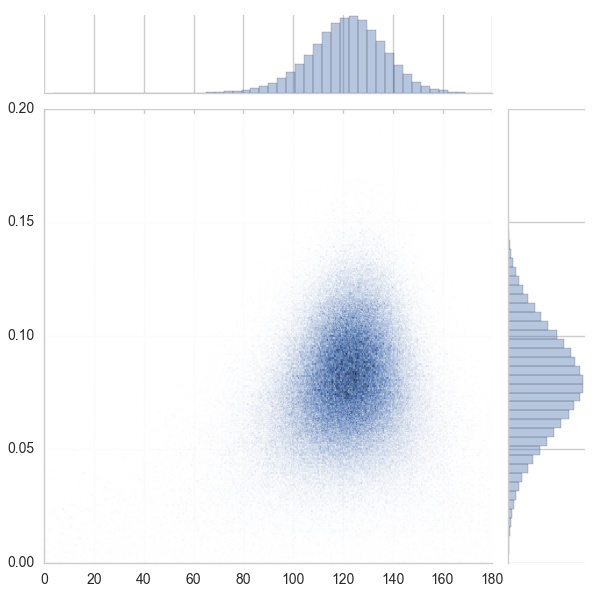
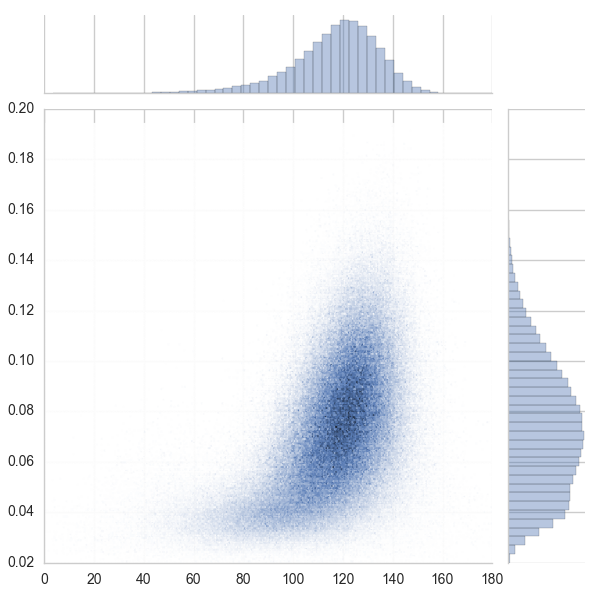
pics redraw

diff --git a/commons.py b/commons.py
@@ -27,6 +27,19 @@ rB = sp.Symbol('rB')
 
 y_theo = np.array([x_plus, y_plus, x_minus, y_minus]).T
 
+# gamma = 70, deltaB = 120, rB = 0.1
+direct = {'y_corr': np.mat([[1.000, 0.000, 0.000, 0.000],
+                      [0.000, 1.000, 0.000, 0.000],
+                      [0.000, 0.000, 1.000, 0.000],
+                      [0.000, 0.000, 0.000, 1.000]]),
+              'y_exp': np.array([-0.09848, -0.01736, 0.06427, 0.0766]),
+              'y_var': np.array([0.00000001, 0.00000001, 0.00000001, 0.00000001])}
+
+direct['y_corr_inv'] = np.linalg.inv(direct["y_corr"])
+direct['y_std'] = np.sqrt(direct["y_var"])
+direct['y_covar'] = np.mat(np.diag(direct['y_std']))*direct["y_corr"]*np.mat(np.diag(direct['y_std']))
+direct['y_covar_inv'] = np.linalg.inv(direct['y_covar'])
+
 summer2015 = {'y_corr': np.mat([[1.000, 0.093, 0.000,-0.000],
                       [0.093, 1.000,-0.000, 0.000],
                       [0.000,-0.000, 1.000,-0.132],
@@ -39,20 +52,44 @@ summer2015['y_std'] = np.sqrt(summer2015["y_var"])
 summer2015['y_covar'] = np.mat(np.diag(summer2015['y_std']))*summer2015["y_corr"]*np.mat(np.diag(summer2015['y_std']))
 summer2015['y_covar_inv'] = np.linalg.inv(summer2015['y_covar'])
 
-lumi3fb = {'y_corr': np.mat([
-    [ 1.000, 0.106,-0.136,-0.186],
-    [ 0.106, 1.000,-0.031,-0.074],
-    [-0.136,-0.031, 1.000,-0.053],
-    [-0.186,-0.074,-0.053, 1.000]]),
-              'y_exp': np.array([-8.85e-2, -0.12e-2, 3.46e-2, 7.91e-2]),
-              'y_var': np.array([(0.024**2 + 0.010**2 + 0.004**2),
-                                 (0.025**2 + 0.004**2 + 0.010**2),
-                                 (0.025**2 + 0.010**2 + 0.005**2),
-                                 (0.029**2 + 0.005**2 + 0.014**2)])}
+lumi1fb = {'y_stat_corr': np.mat([
+        [ 1.000, 0.170,-0.000,-0.000],
+        [ 0.170, 1.000,-0.000,-0.000],
+        [-0.000,-0.000, 1.000,-0.110],
+        [-0.000,-0.000,-0.110, 1.000]]),
+            'y_sys_corr': np.mat([
+        [ 1.000, 0.360,-0.000,-0.000],
+        [ 0.360, 1.000,-0.000,-0.000],
+        [-0.000,-0.000, 1.000,-0.050],
+        [-0.000,-0.000,-0.050, 1.000]]),
+              'y_exp': np.array([-0.103, -0.009, 0.000, 0.027]),
+              'y_stat_err': np.array([0.045, 0.037, 0.043, 0.052]),
+              'y_sys_err': np.array([(0.018**2 + 0.014**2)**0.5,
+                                     (0.008**2 + 0.030**2)**0.5,
+                                     (0.015**2 + 0.006**2)**0.5,
+                                     (0.008**2 + 0.023**2)**0.5])}
 
-lumi3fb['y_corr_inv'] = np.linalg.inv(lumi3fb["y_corr"])
-lumi3fb['y_std'] = np.sqrt(lumi3fb["y_var"])
-lumi3fb['y_covar'] = np.mat(np.diag(lumi3fb['y_std']))*lumi3fb["y_corr"]*np.mat(np.diag(lumi3fb['y_std']))
+lumi1fb['y_covar'] = np.mat(np.diag(lumi1fb['y_stat_err']))*lumi1fb["y_stat_corr"]*np.mat(np.diag(lumi1fb['y_stat_err'])) + \
+                     np.mat(np.diag(lumi1fb['y_sys_err']))*lumi1fb["y_sys_corr"]*np.mat(np.diag(lumi1fb['y_sys_err']))
+lumi1fb['y_covar_inv'] = np.linalg.inv(lumi1fb['y_covar'])
+
+lumi3fb = {
+            'y_stat_corr': np.mat([
+                [ 1.000, 0.106,-0.136,-0.186],
+                [ 0.106, 1.000,-0.031,-0.074],
+                [-0.136,-0.031, 1.000,-0.053],
+                [-0.186,-0.074,-0.053, 1.000]]),
+            'y_sys_corr': np.mat([
+                [ 1.000, 0.000,-0.000,-0.000],
+                [ 0.000, 1.000,-0.000,-0.000],
+                [-0.000,-0.000, 1.000,-0.000],
+                [-0.000,-0.000,-0.000, 1.000]]),
+            'y_exp': np.array([-8.85e-2, -0.12e-2, 3.46e-2, 7.91e-2]),
+            'y_stat_err': np.array([3.12e-2, 3.65e-2, 2.89e-2/5, 3.83e-2]),
+            'y_sys_err': np.array([0,0,0,0])}
+
+lumi3fb['y_covar'] = np.mat(np.diag(lumi3fb['y_stat_err']))*lumi3fb["y_stat_corr"]*np.mat(np.diag(lumi3fb['y_stat_err'])) + \
+                     np.mat(np.diag(lumi3fb['y_sys_err']))*lumi3fb["y_sys_corr"]*np.mat(np.diag(lumi3fb['y_sys_err']))
 lumi3fb['y_covar_inv'] = np.linalg.inv(lumi3fb['y_covar'])
 
 y_theo_sym = sp.Matrix([rB*sp.cos((deltaB + gamma)*(math.pi/180)),

diff --git a/ggsz_native.py b/ggsz_native.py
@@ -66,12 +66,12 @@ def print_hpd(var, lvl):
     print("{} {}% HPD: {}".format(var.__name__, int(lvl*100), pymc.utils.hpd(var.trace[:] , 1.-lvl)))
 
 if __name__ == "__main__":
-    for name, lower_limit, upper_limit in [('q1', 0, 180), ('q4', -180, 0)]:
+    for name, lower_limit, upper_limit in [('q1', 0, 180)]:
         print("Calculations for {}...".format(name))
         # Vars
         gamma = Uniform("gamma", doc="$\gamma$", lower=lower_limit, upper=upper_limit)
         deltaB = Uniform("deltaB", doc="$\delta_B$", lower=lower_limit, upper=upper_limit)
-        rB = Uniform("rB", doc='$r_B$', lower=0, upper=0.5)
+        rB = Uniform("rB", doc='$r_B$', lower=0.02, upper=0.2)
         var_list = [gamma, deltaB, rB]
 
         @deterministic

diff --git a/ggsz_gammacombo.py b/ggsz_gammacombo.py
@@ -16,7 +16,7 @@ tstr = PyGammaCombo.TString
 # Constants
 sns.set_style("whitegrid")
 matplotlib.rcParams.update({'font.size': 10})
-N = 200000 # Sample size (N/10 used for burning out)
+N = 1000000 # Sample size (N/10 used for burning out)
 number_of_bins = 90
 load_last_model = False
 
